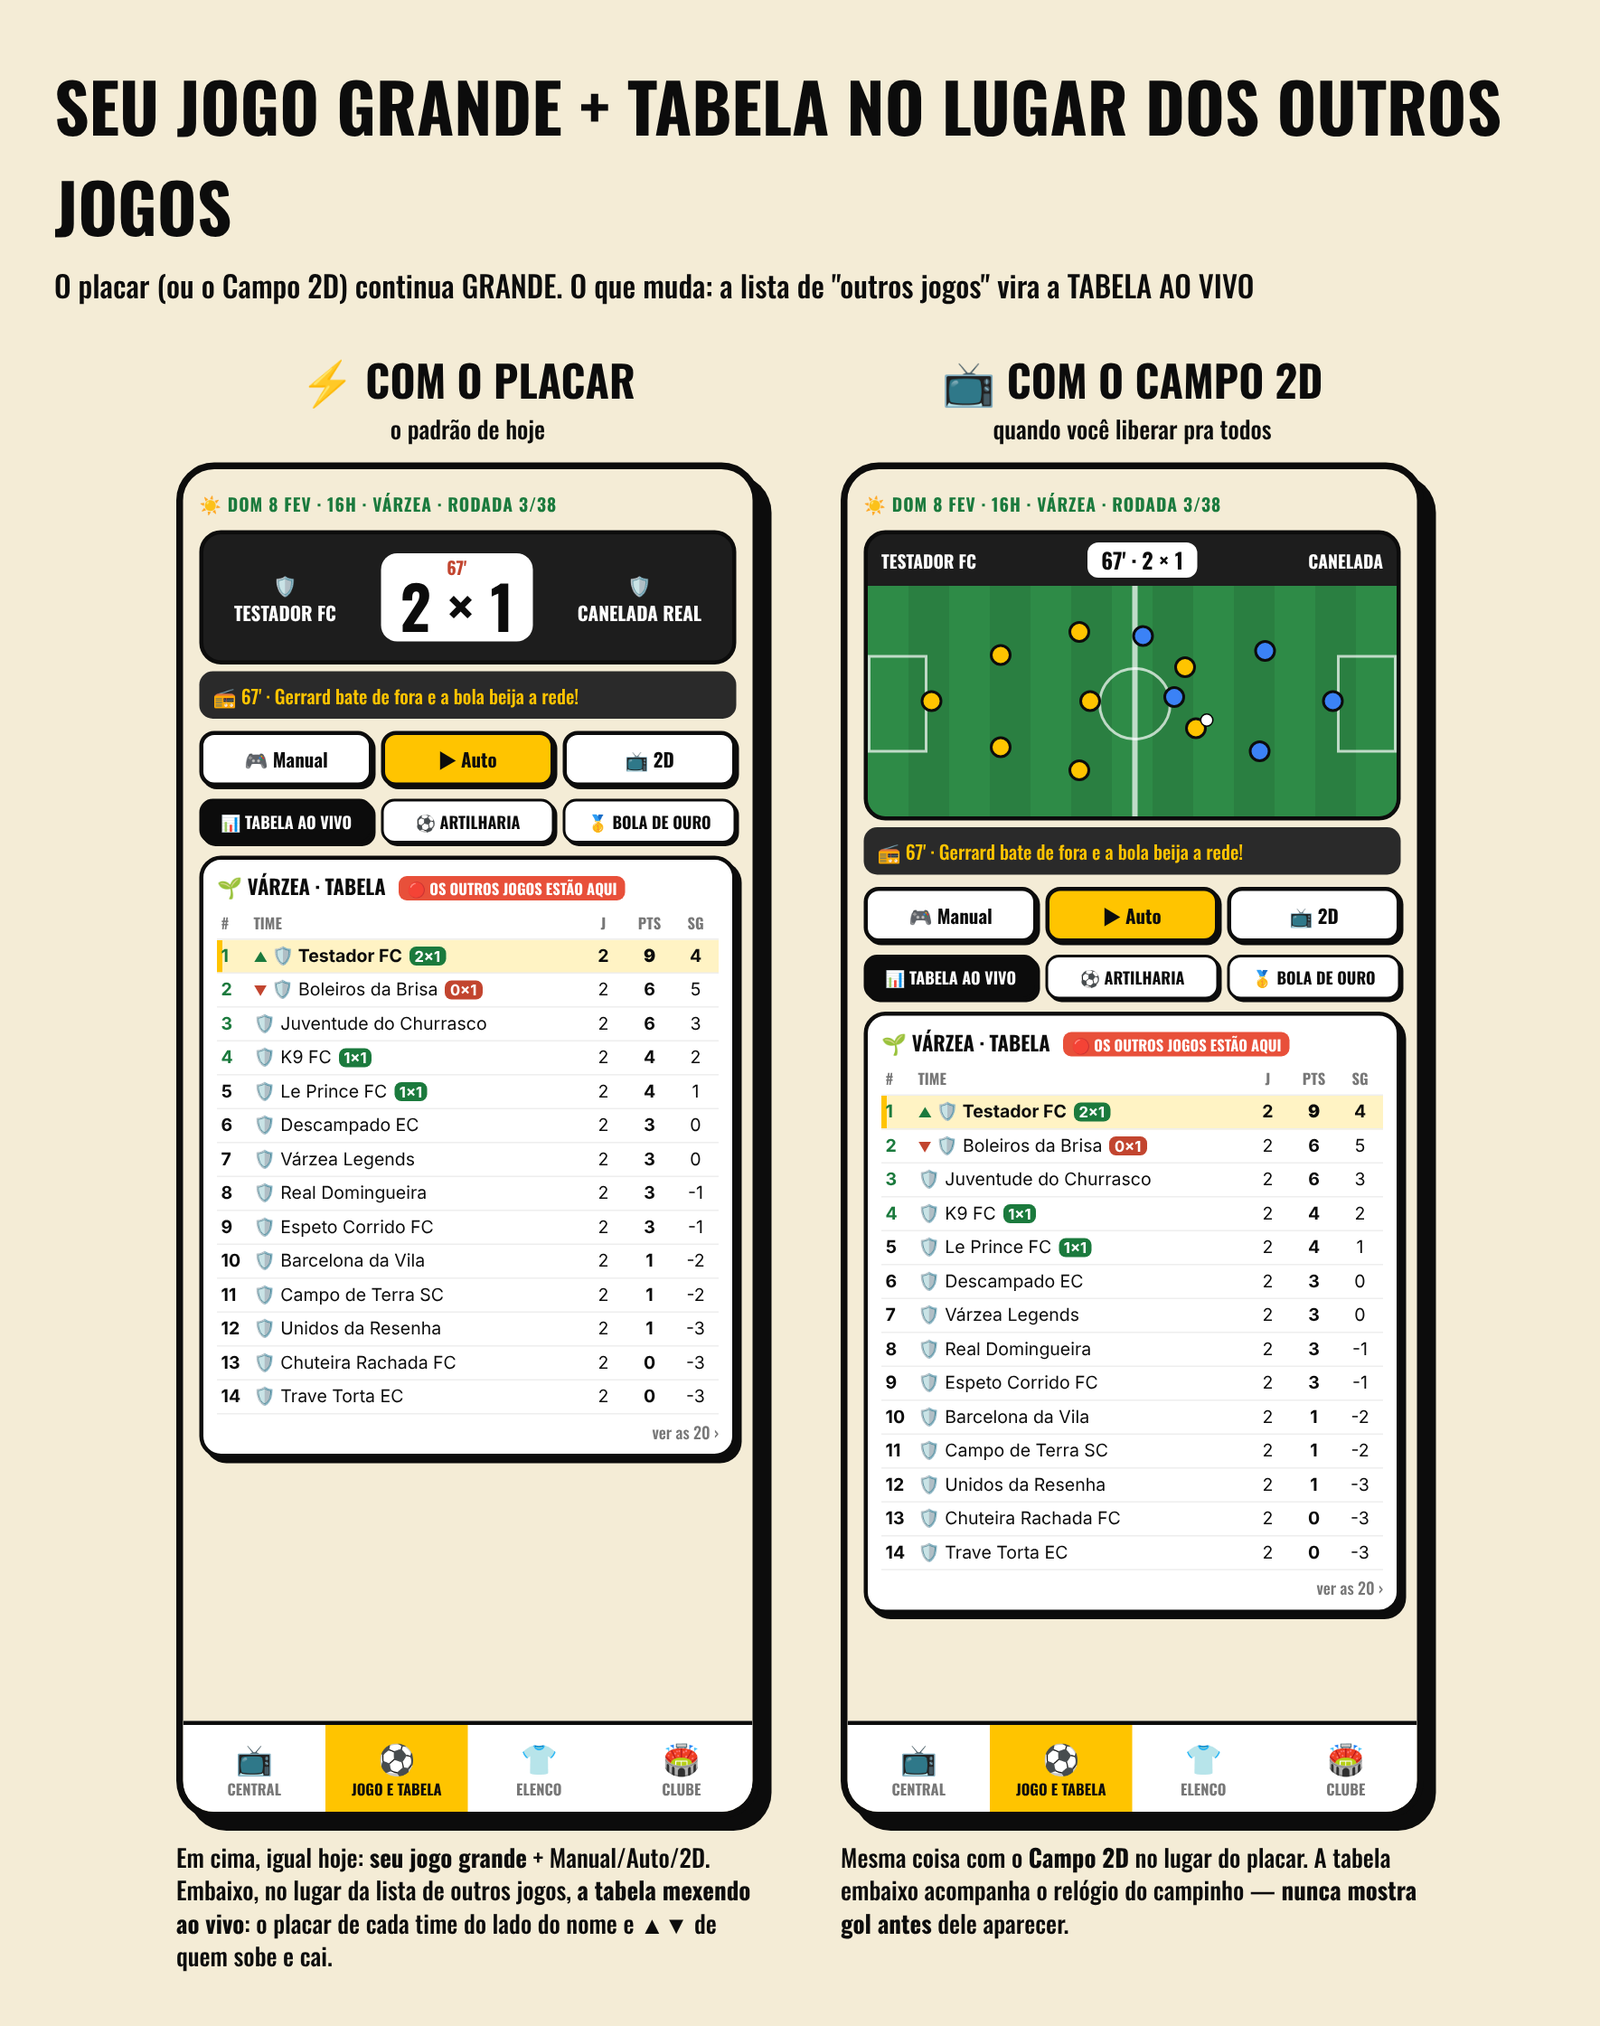
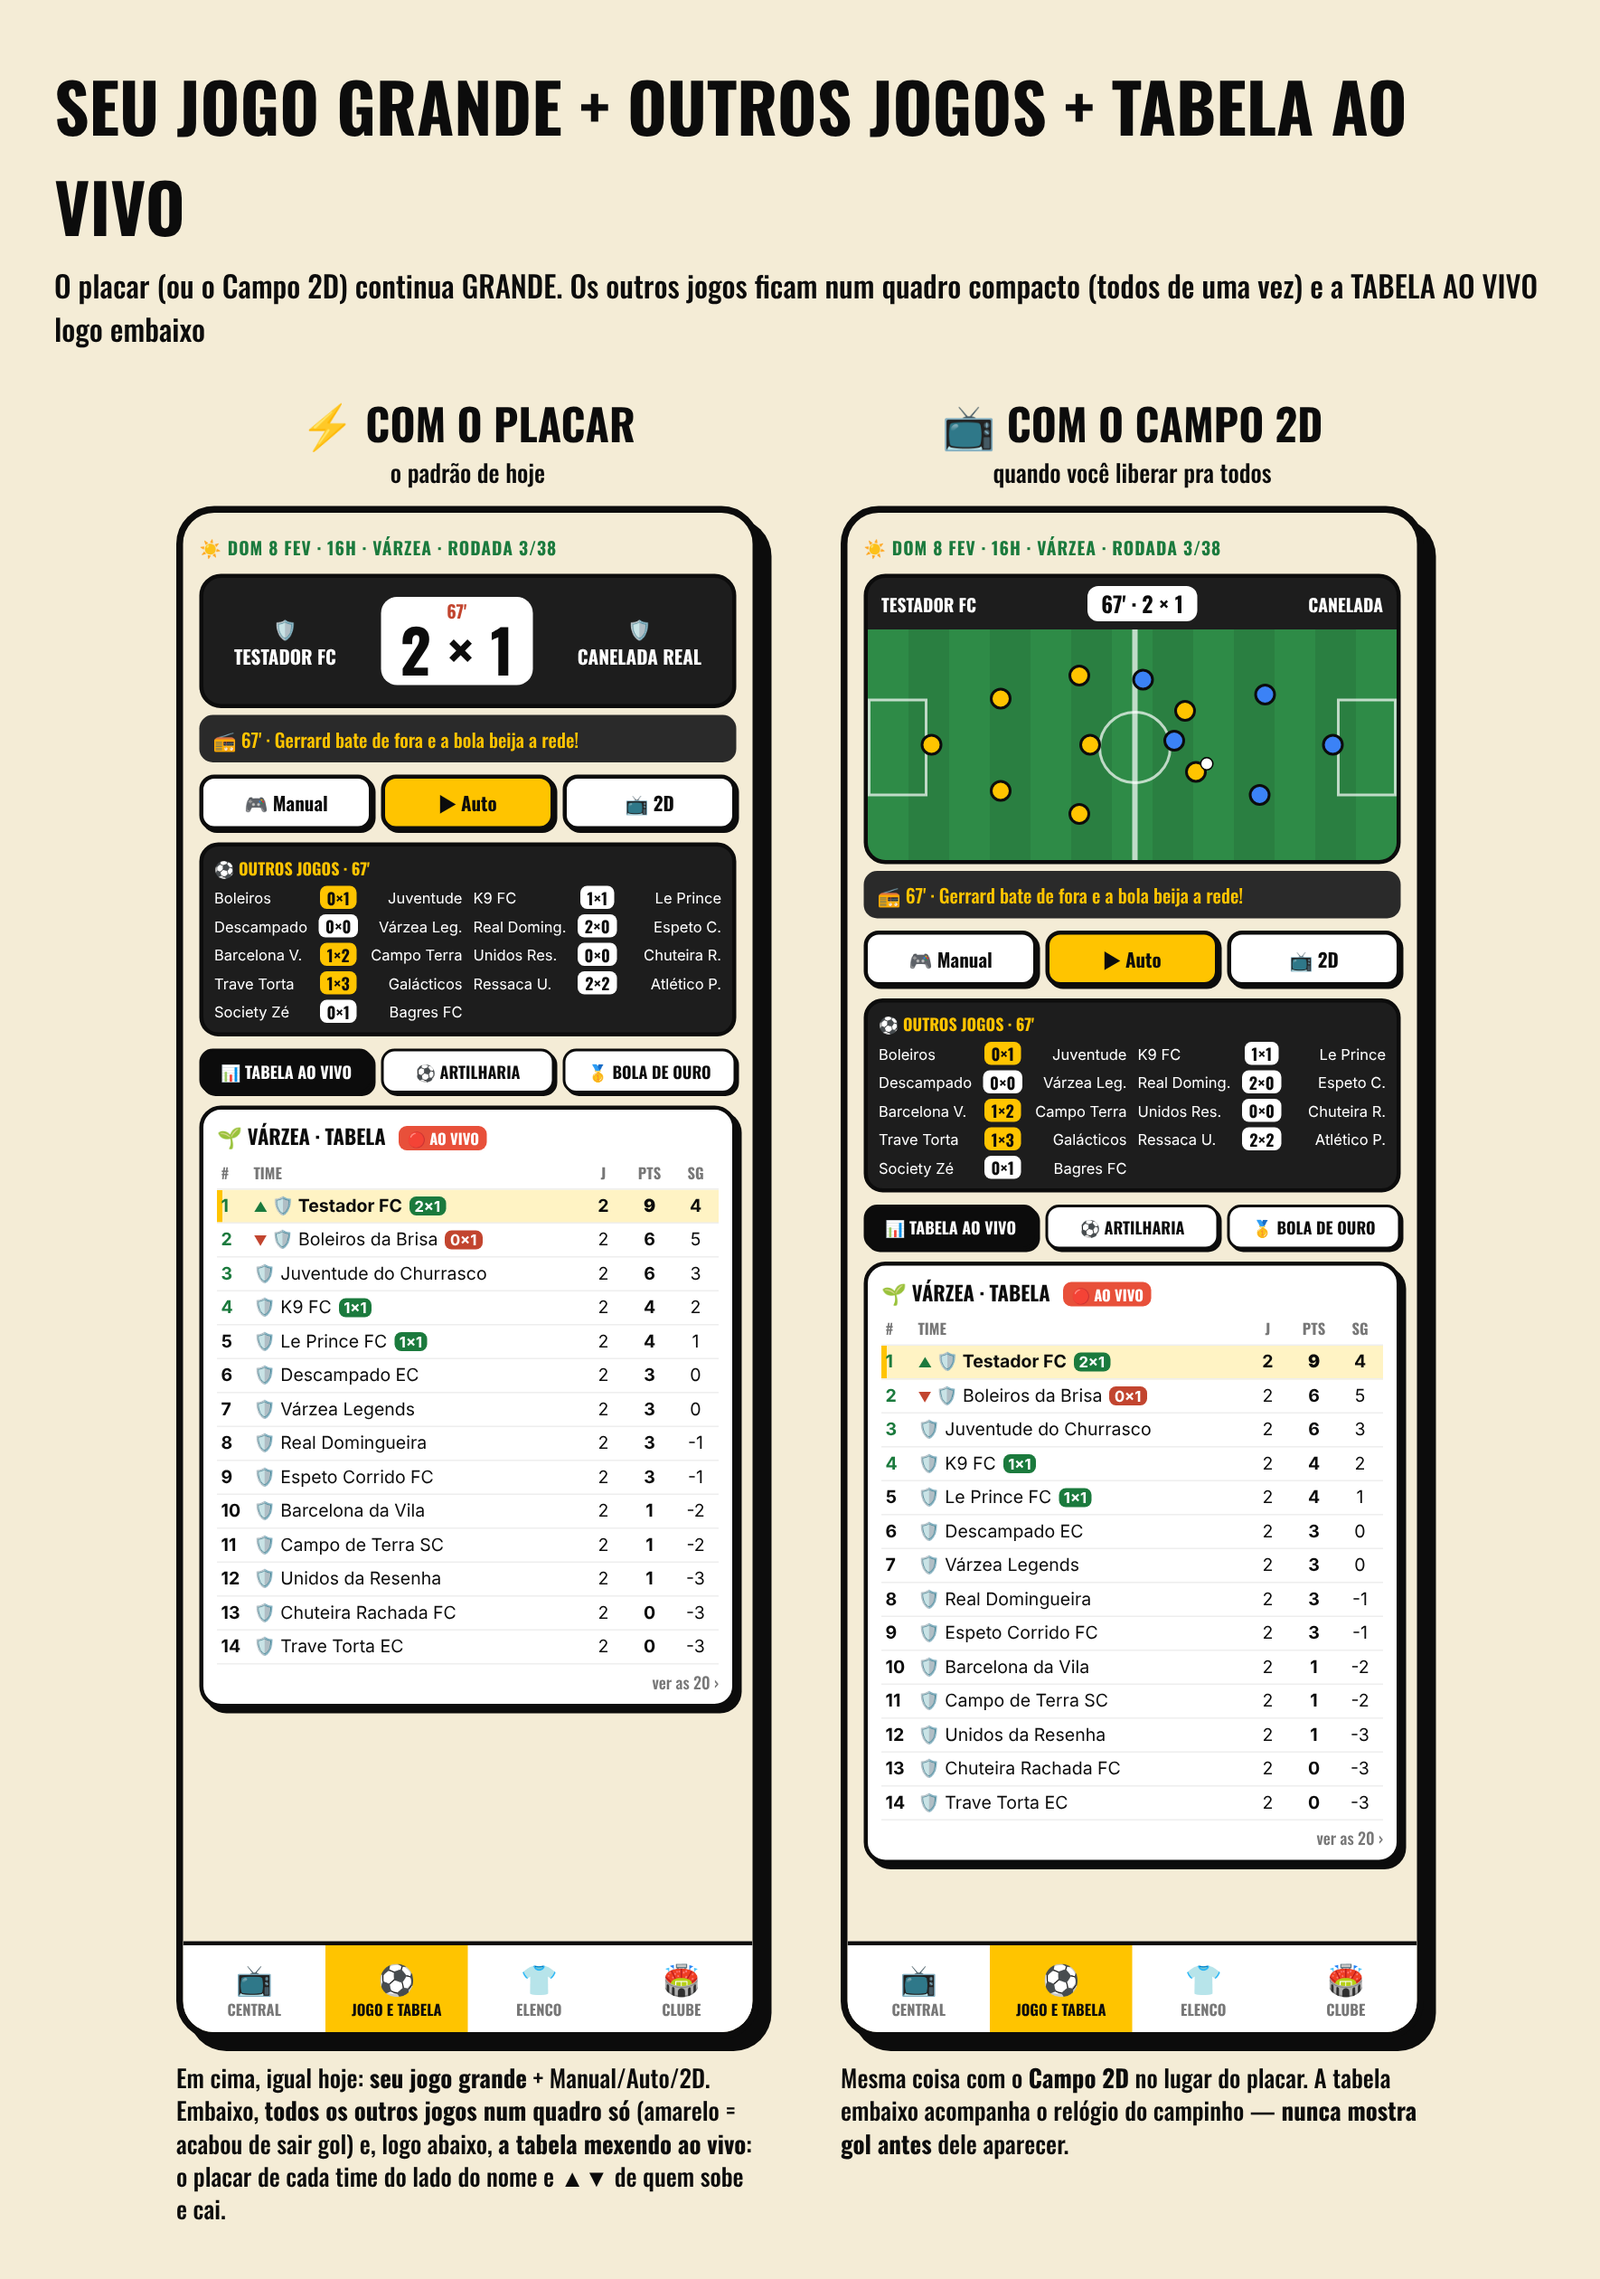
Mockup: quadro compacto dos outros jogos entre o seu jogo e a tabela ao vivo
Claude-Session: https://claude.ai/code/session_012GPrTDbpvrApA6DArkzCpE

Changed region(s): [[0.0311, 0.0312, 0.9633, 0.9683], [0.0932, 0.1874, 0.4972, 0.7497], [0.0932, 0.8434, 0.4661, 0.9683]]

diff --git a/docs/pendencias.md b/docs/pendencias.md
@@ -10697,4 +10697,4 @@ avisos (criar conta/salvar) só na Central.
   ritmo do relógio da tela, nunca antes: anti-spoiler). Barra de baixo com 4 abas. ⏳ Espera ele escolher.
 - 25/10 (3ª parte) — ele corrigiu: *"o placar ou campo 2D não pode ser faixinha… eu tava falando dos jogos restantes"*. Ou seja:
   o SEU jogo continua GRANDE (placar ou Campo 2D); quem vira tabela é a lista de OUTROS JOGOS da rodada → tabela ao vivo com o placar
-  de cada time do lado do nome e ▲▼. Mockup `scripts/mockups/carreira-jogo-tabela-ao-vivo.png` (placar × 2D). ⏳ Espera OK.
+  de cada time do lado do nome e ▲▼. Ele cobrou *"cadê os jogos do restante do pessoal?"* → os outros jogos ficam num QUADRO COMPACTO (2 colunas, amarelo = gol recente) entre o seu jogo e a tabela. Mockup `scripts/mockups/carreira-jogo-tabela-ao-vivo.png` (placar × 2D). ⏳ Espera OK.
